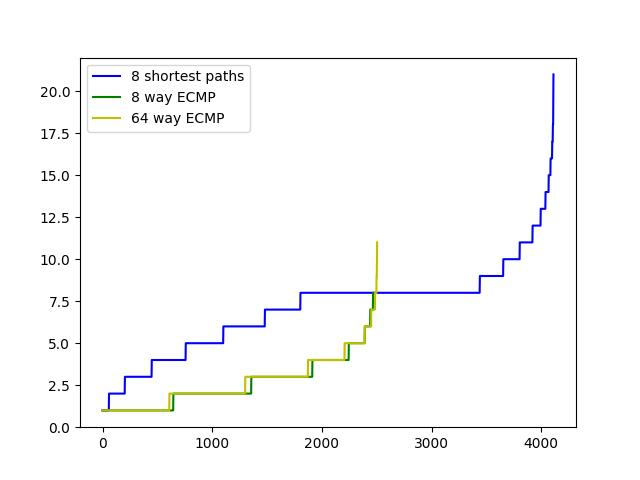
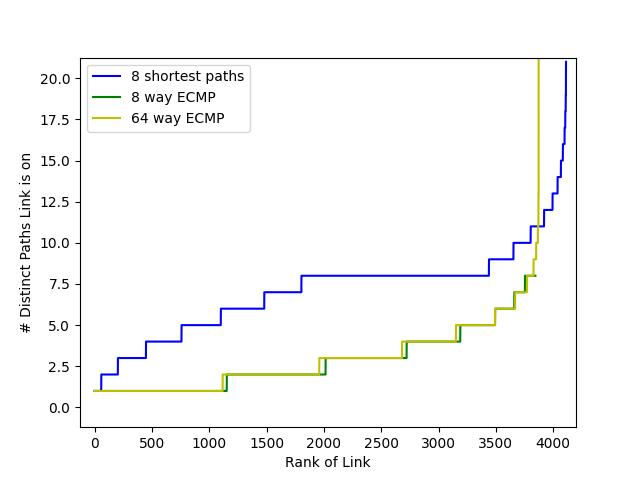
Added axes labels

diff --git a/lab2/reproduce_1c.py b/lab2/reproduce_1c.py
@@ -100,12 +100,6 @@ num_servers = 686
 num_switches = 245
 num_ports = 14
 
-
-# num_servers = 6
-# num_switches = 3
-# num_ports = 4
-
-
 # run jelly fish 10 times
 j_v_l = []
 for i in range(10):
@@ -143,6 +137,8 @@ print(f_k, j_k, c)
 
 plt.bar(j_k, j_v, width=0.3, label='JellyFish')
 plt.bar(f_k, f_v, width=0.3, label='FatTree')
+plt.xlabel('Path length')
+plt.ylabel('Fraction of Server Pairs')
 plt.xticks([int(x) + 0.3 for x in c], c)
 plt.legend()
 

diff --git a/lab2/generate_fig9_graph_from_pickle.py b/lab2/generate_fig9_graph_from_pickle.py
@@ -3,7 +3,7 @@ import matplotlib.pyplot as plt
 import numpy as np
 import sys
 
-f = open("BCube.pickle", "rb")
+f = open("K_shortest_paths_pickle/JellyFish.pickle", "rb")
 ld_dict = pickle.load(f)
 print(ld_dict)
 
@@ -62,4 +62,6 @@ lste64.sort()
 plt.plot(lste64, 'y', label="64 way ECMP")
 
 plt.legend()
+plt.xlabel('Rank of Link')
+plt.ylabel('# Distinct Paths Link is on')
 plt.show()
